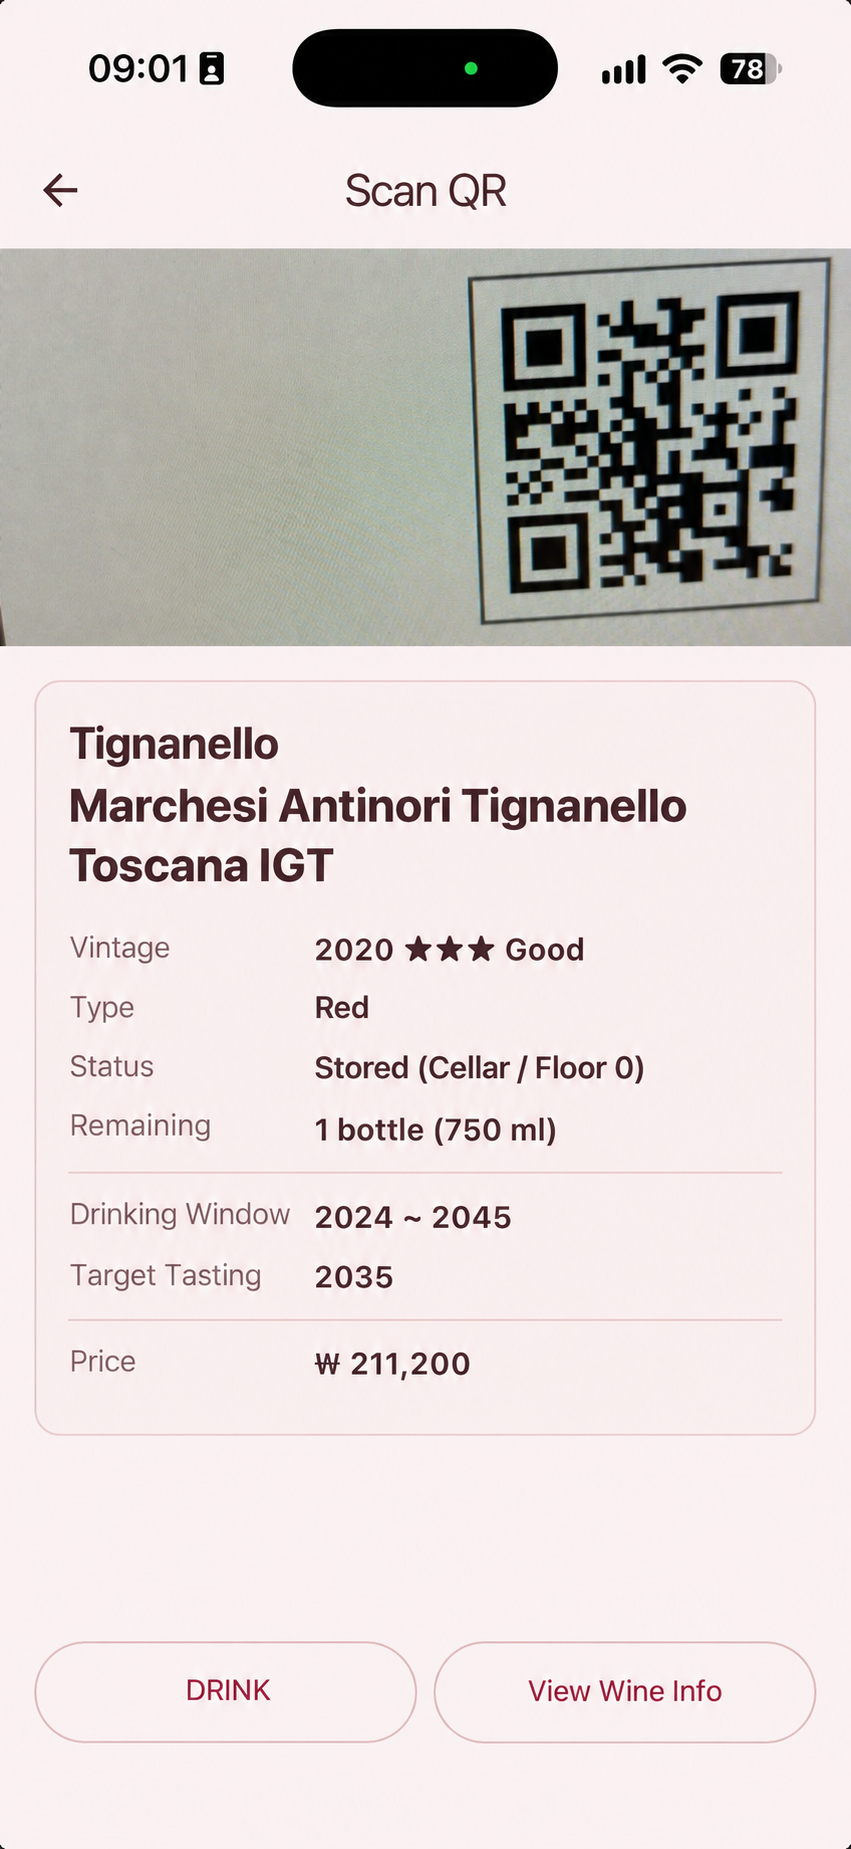
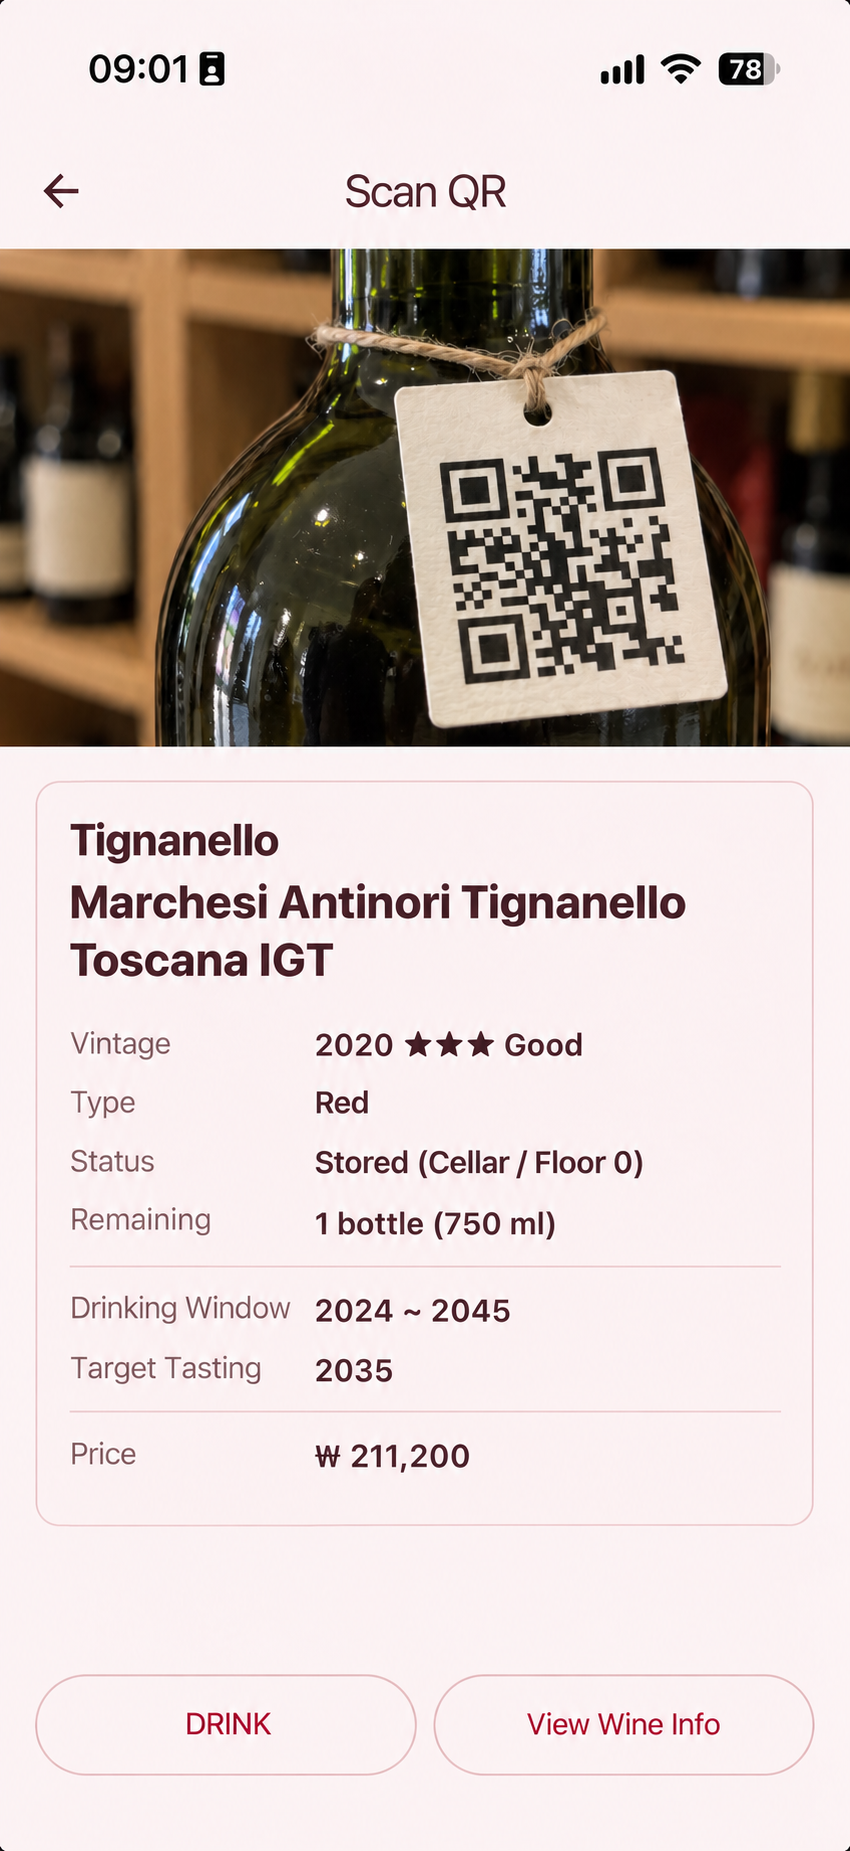
Retouch feature screenshots and illustrate QR bottle tag

diff --git a/features.html b/features.html
@@ -95,7 +95,7 @@
             <p>어느 셀러에 어떤 와인이 있는지, 같은 와인이 몇 병 남았는지 한눈에 살펴보세요. 셀러의 층과 자리를 실제 보관 모습에 맞게 구성하고, 같은 와인도 한 병씩 구분해 관리할 수 있습니다. 셀러에 넣지 않은 와인은 위치 미지정으로 보관하시면 됩니다.</p>
             <div class="feature-media">
               <figure class="feature-shot"><a href="images/features/olwine-home-ko.png"><img src="images/features/olwine-home-ko.png" alt="셀러별 보관 현황과 위치 미지정 와인 1병" width="1206" height="2622" loading="lazy"></a><figcaption>셀러별 보관 현황</figcaption></figure>
-              <figure class="feature-shot"><a href="images/features/cellar-layout.png"><img src="images/features/cellar-layout.png" alt="메인 셀러 11층에서 A3의 로제 와인을 드래그하며 보관 자리를 옮기는 모습" width="1206" height="2622" loading="lazy"></a><figcaption>층과 자리별 와인 배치</figcaption></figure>
+              <figure class="feature-shot"><a href="images/features/cellar-layout.png"><img src="images/features/cellar-layout.png" alt="메인 셀러 11층에서 A3의 로제 와인을 드래그하며 보관 자리를 옮기는 모습" width="851" height="1849" loading="lazy"></a><figcaption>층과 자리별 와인 배치</figcaption></figure>
             </div>
           </article>
           <article class="feature-item" id="tastings-ko">
@@ -162,7 +162,7 @@
             <p>와인·층·셀러별 QR 라벨을 만들어 이미지로 저장하거나 인쇄할 수 있습니다. 라벨을 스캔하면 연결된 와인과 보관 정보를 바로 확인할 수 있어, 병이 여러 겹으로 쌓인 셀러에서도 필요한 와인을 찾는 데 도움이 됩니다.</p>
             <div class="feature-media">
               <figure class="feature-shot"><a href="images/features/qr-label.png"><img src="images/features/qr-label.png" alt="라벨 구성과 출력 설정" width="1206" height="2622" loading="lazy"></a><figcaption>라벨 구성과 출력 설정</figcaption></figure>
-              <figure class="feature-shot"><a href="images/features/qr-scan-result.png"><img src="images/features/qr-scan-result.png" alt="QR로 연 와인 정보와 보관 위치" width="1206" height="2622" loading="lazy"></a><figcaption>QR로 연 와인 정보와 보관 위치</figcaption></figure>
+              <figure class="feature-shot"><a href="images/features/qr-scan-result.png"><img src="images/features/qr-scan-result.png" alt="QR 태그가 걸린 와인병의 카메라 예시 이미지와 연결된 와인 정보·보관 위치" width="851" height="1849" loading="lazy"></a><figcaption>QR로 연 와인 정보와 보관 위치 (카메라 이미지 예시)</figcaption></figure>
             </div>
           </article>
           <article class="feature-item" id="badges-ko">
@@ -192,7 +192,7 @@
             <p>See what is in each cellar and how many bottles remain. Arrange layers and positions to match your storage, and keep track of each bottle, even when you own several of the same wine. Bottles outside a cellar can stay unassigned.</p>
             <div class="feature-media">
               <figure class="feature-shot"><a href="images/features/olwine-home-en.png"><img src="images/features/olwine-home-en.png" alt="Collection overview" width="1206" height="2622" loading="lazy"></a><figcaption>Collection overview</figcaption></figure>
-              <figure class="feature-shot"><a href="images/features/cellar-layout.png"><img src="images/features/cellar-layout.png" alt="Dragging the rosé wine from A3 to change its storage position on layer 11 (Korean UI)" width="1206" height="2622" loading="lazy"></a><figcaption>Wines by layer and position (Korean UI)</figcaption></figure>
+              <figure class="feature-shot"><a href="images/features/cellar-layout.png"><img src="images/features/cellar-layout.png" alt="Dragging the rosé wine from A3 to change its storage position on layer 11 (Korean UI)" width="851" height="1849" loading="lazy"></a><figcaption>Wines by layer and position (Korean UI)</figcaption></figure>
             </div>
           </article>
           <article class="feature-item" id="tastings-en">
@@ -259,7 +259,7 @@
             <p>Create QR labels for wines, layers, or cellars, then save them as images or print them. Scan a label to open the linked wine and storage details, which is especially helpful when bottles are stacked out of sight.</p>
             <div class="feature-media">
               <figure class="feature-shot"><a href="images/features/qr-label_e.png"><img src="images/features/qr-label_e.png" alt="Label layout and output options" width="1206" height="2622" loading="lazy"></a><figcaption>Label layout and output options</figcaption></figure>
-        <figure class="feature-shot"><a href="images/features/qr-scan-result_e.png"><img src="images/features/qr-scan-result_e.png" alt="Wine details opened from a QR link" width="851" height="1849" loading="lazy"></a><figcaption>Wine details opened from a QR link</figcaption></figure>
+        <figure class="feature-shot"><a href="images/features/qr-scan-result_e.png"><img src="images/features/qr-scan-result_e.png" alt="Illustrative camera view of a wine bottle with a hanging QR tag, with linked wine and storage details" width="850" height="1851" loading="lazy"></a><figcaption>Wine details opened from a QR link (illustrative camera image)</figcaption></figure>
             </div>
           </article>
           <article class="feature-item" id="badges-en">

diff --git a/FEATURE_SCREENSHOT_BRIEF.md b/FEATURE_SCREENSHOT_BRIEF.md
@@ -21,8 +21,8 @@
 
 - iPhone 17 / iOS 27.0 Simulator의 실제 앱 화면을 사용했다.
 - 사용자가 공개 촬영을 위해 넣어둔 사진은 유지했다. 허용한 시뮬레이터 데이터 변경 범위에서 구매희망의 임시 입력을 예시 와인 3종·4병으로 정리하고, 홈의 수량도 이에 맞춰 갱신했다. 사진 목록은 사진이 있는 기록이 대부분인 2026년 10월 첫 화면을 선택했다. 이후 사용자 요청으로 ‘셀러’를 ‘메인 셀러’로 바꾸고 한국어·영어 홈을 다시 촬영했다. 같은 셀러의 11층 8병은 종류를 각각 레드·화이트·로제·스파클링·디저트·주정강화·오렌지·기타로 지정했다. 와인명·위치·수량·시음 기록·사진은 유지했다.
-- 홈·시음 입력·검색 결과·검색 필터·구매희망·QR 생성은 한국어·영어로 각각 촬영했다. 층 배치는 사용자 제공 한국어 녹화의 실제 드래그 프레임을 양쪽 페이지에 사용한다. QR 연결 정보는 아래 사용자 제공 원본과 영문 번역 편집본을 사용한다. 한국어 UI를 사용하는 영어 본문 캡션에는 Korean UI를 표기한다.
-- QR 연결 정보의 영문 번역 편집본과 한국어 시음 입력의 붉은 박스 주석본을 제외한 새 화면은 원본 PNG를 사용하며, 실제 AI 결과의 임의 작성은 하지 않는다.
+- 홈·시음 입력·검색 결과·검색 필터·구매희망·QR 생성은 한국어·영어로 각각 촬영했다. 층 배치는 사용자 제공 한국어 녹화의 드래그 프레임에서 아일랜드를 제거한 편집본을 양쪽 페이지에 사용한다. QR 연결 정보는 아래 사용자 제공 화면을 바탕으로 카메라 영역을 연출한 한국어·영어 편집본을 사용한다. 한국어 UI를 사용하는 영어 본문 캡션에는 Korean UI를 표기한다.
+- 층 배치의 아일랜드 제거본, QR 연결 정보의 카메라 예시·영문 번역 편집본, 한국어 시음 입력의 붉은 박스 주석본을 제외한 새 화면은 원본 PNG를 사용한다. 실제 AI 인식 결과의 임의 작성은 하지 않는다.
 - AI 요청을 실행하거나 서버 정책·지급량·요금제·앱 권한을 변경하지 않았다.
 
 ## 나머지 캡처 대조 결과 (2026-10-19)
@@ -32,7 +32,7 @@
 | 장면 | 확인 결과와 조치 |
 | --- | --- |
 | 홈 | 현재 UI와 동일. 구매희망 예시 수량과 ‘메인 셀러’ 이름을 반영. 이후 위치 미지정 ‘보관 예정 와인’ 1병을 추가해 총 보관 155병·미지정 1병 상태로 한국어·영어 재촬영 |
-| 층과 자리별 배치 | 사용자 제공 녹화의 6.58초 프레임으로 교체. 메인 셀러 11층 A3의 로제 와인이 원래 자리에서 떨어져 드래그되는 모습. 영문에도 같은 한국어 원본 사용 |
+| 층과 자리별 배치 | 사용자 제공 녹화의 6.58초 프레임으로 교체. 메인 셀러 11층 A3의 로제 와인이 원래 자리에서 떨어져 드래그되는 모습. 이후 사용자 요청으로 아일랜드 제거. 영문에도 같은 한국어 편집본 사용 |
 | 시음 사진 목록 | 현재 사진 목록과 동일해 유지 |
 | 시음 입력 | 사진·와인 헤더·시음량·평점 입력 구성이 달라 한국어·영어 재촬영. 한국어는 사용자 요청으로 ‘시음량’과 ‘ml’ 수량 두 필드만 붉은 굵은 사각 테두리로 강조 |
 | 셀러 정리 시작 | 현재 카드 구성과 동일해 유지 |
@@ -45,19 +45,19 @@
 | 와인 추천 | 같은 후보 3종과 먼저 마실 와인 조건으로 대조, 동일해 유지 |
 | 구매희망 | 현재 수량·예상 금액 요약과 목록으로 한국어·영어 재촬영 |
 | QR 생성 | 현재 개별 와인의 생성 설정으로 한국어·영어 재촬영. QR 출력·재발급은 실행하지 않음 |
-| QR 연결 정보 | 사용자가 제공한 2026-10-19 09.01.42 QR 스캔 결과 원본으로 한국어 교체. 같은 이미지의 항목명·버튼 등을 영어로 번역한 편집본을 영문에 사용 |
+| QR 연결 정보 | 사용자 제공 2026-10-19 09.01.42 화면을 바탕으로 한국어·영어 구성. 이후 사용자 요청으로 아일랜드를 제거하고 카메라 영역을 QR 태그가 병목에 걸린 와인병 실사풍 이미지로 교체. 카메라 예시임을 캡션에 표시 |
 | 배지 | 현재 달성·진행률·배지 카드 구성과 동일해 유지 |
 | 전체 백업 | 현재 사진 포함 옵션과 백업·복구 명령 구성이 동일해 유지 |
 
 앞선 추가 작업에서는 14개 PNG를 준비했다. 9월의 한국어·영어 캡처 12개와 한국어 홈을 교체하고 영어 홈 1개를 추가했다. 이 캡처의 실제 크기는 1206×2622이다. 영문 시음 입력의 가로 스크롤 행은 시음량·평점이 보이는 위치에서 촬영했다.
 
-QR 연결 정보 이미지는 이후 사용자 제공 스크린샷으로 교체했다. 한국어 `qr-scan-result.png`는 제공 원본(1206×2622)이며, 영문 `qr-scan-result_e.png`는 내장 imagegen의 텍스트 번역 편집본(851×1849)이다. 편집 지시는 화면 구성·색상·와인 정보·숫자·카메라 영역을 유지하고 한국어 항목명과 버튼을 영어로 바꾸는 내용이다. 영문 이미지는 실제 앱에서 다시 촬영한 화면이 아니며, 이미지 안의 QR은 스캔 기능 검증용으로 사용하지 않는다.
+QR 연결 정보 이미지는 사용자 제공 스크린샷을 바탕으로 편집했다. 현재 한국어 `qr-scan-result.png`(851×1849)와 영문 `qr-scan-result_e.png`(850×1851)는 내장 imagegen으로 아일랜드를 지우고, 카메라 영역에 병목의 끈으로 흰 QR 태그를 매단 와인병 실사풍 예시를 넣은 편집본이다. 와인 정보·수량·날짜·가격은 기존 화면의 값을 유지하도록 지시했다. 영문은 기존 번역 문구를 유지한다. 실제 카메라로 해당 병을 스캔해 촬영한 화면이 아니며, 이미지 안의 QR은 스캔 기능 검증용으로 사용하지 않는다.
 
 한국어 `partial-tasting.png`는 내장 imagegen으로 기존 캡처의 ‘시음량’ 단위 필드와 ‘ml / 600’ 수량 필드에만 붉은 굵은 사각 테두리를 추가한 주석본(851×1849)이다. 편집 지시는 두 필드 전체를 각각 감싸되 평점 필드는 제외하고 나머지 문구·값·구성을 유지하는 내용이다. 영문 시음 입력 이미지는 이번 요청에서 변경하지 않았다.
 
 ## 공개 전 확인할 사항
 
-층 배치의 `cellar-layout.png`는 사용자 제공 `Screen Recording iPhone 17 10-19-2026 at 09.15.37.mp4`에서 6.58초 프레임을 추출한 1206×2622 PNG다. 화면 합성·문구 변경·이동 표시 추가 없이 실제 프레임을 사용했다. 기존 영문 `cellar-layout_e.png`는 삭제하지 않고 페이지 연결만 한국어 드래그 캡처로 바꿨다.
+층 배치의 `cellar-layout.png`는 사용자 제공 `Screen Recording iPhone 17 10-19-2026 at 09.15.37.mp4`에서 6.58초 프레임을 추출한 뒤 내장 imagegen으로 상단 검은 아일랜드를 주변 배경색으로 제거한 편집본(851×1849)이다. 시간·통신·배터리와 드래그 모습·문구·값은 유지하도록 지시했다. 기존 영문 `cellar-layout_e.png`는 삭제하지 않고 페이지 연결만 한국어 드래그 편집본으로 바꿨다.
 
 - 앱에는 기존 단일 프리미엄의 QR 생성·전체 백업·셀러 수 제한 코드가 남아 있다. 이번 요청의 기능별 차등 없는 페이지 구성에 맞춘 앱 권한 변경은 별도 작업이다.
 - 취향 분석의 현재 클라이언트 규약과 운영 서버 연결, 앱 내 추천의 운영 배포는 출시 전에 확인해야 한다. 추천 설명은 외부 AI 활용을 포함하며 운영 서버 이용을 보장하지 않는다.
